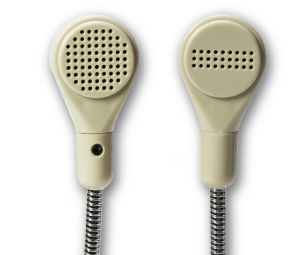
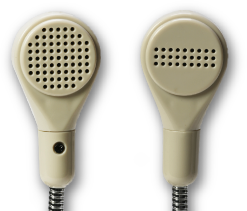
Ear phone.

diff --git a/public/contact.html b/public/contact.html
@@ -175,14 +175,14 @@
     <div class="container">
       <span>Copyright &#169; 2013 Spark Commerce Inc.</span>
       <span class="divider"></span>
-      <a>Terms</a>
+      <a href="/#">Terms</a>
       <span class="divider"></span>
-      <a>Privacy</a>
+      <a href="/#">Privacy</a>
       <span class="divider"></span>
       <div class="pull_right">
-        <a>About Us</a>
+        <a href="/#/about-us">About Us</a>
         <span class="divider"></span>
-        <a>Get Started</a>
+        <a href="/#">Get Started</a>
       </div>
     </div>
   </footer>

diff --git a/public/demo.html b/public/demo.html
@@ -173,14 +173,14 @@
     <div class="container">
       <span>Copyright &#169; 2013 Spark Commerce Inc.</span>
       <span class="divider"></span>
-      <a>Terms</a>
+      <a href="/#">Terms</a>
       <span class="divider"></span>
-      <a>Privacy</a>
+      <a href="/#">Privacy</a>
       <span class="divider"></span>
       <div class="pull_right">
-        <a>About Us</a>
+        <a href="/#/about-us">About Us</a>
         <span class="divider"></span>
-        <a>Get Started</a>
+        <a href="/#">Get Started</a>
       </div>
     </div>
   </footer>

diff --git a/public/index.html b/public/index.html
@@ -417,14 +417,14 @@
     <div class="container">
       <span>Copyright &#169; 2013 Spark Commerce Inc.</span>
       <span class="divider"></span>
-      <a>Terms</a>
+      <a href="/#">Terms</a>
       <span class="divider"></span>
-      <a>Privacy</a>
+      <a href="/#">Privacy</a>
       <span class="divider"></span>
       <div class="pull_right">
-        <a>About Us</a>
+        <a href="/#/about-us">About Us</a>
         <span class="divider"></span>
-        <a>Get Started</a>
+        <a href="/#">Get Started</a>
       </div>
     </div>
   </footer>

diff --git a/public/assets/css/application.css b/public/assets/css/application.css
@@ -1304,7 +1304,7 @@ marquee p {
 
 img.ear_phone {
   position: absolute;
-  bottom: -40px;
+  bottom: 0;
   right: 100px;
   z-index: 1;
 }
@@ -1538,9 +1538,11 @@ footer {
   background: url(../images/bg-footer.png) repeat-x top;
 }
 
-footer a {
+footer a,
+footer a:visited {
   color: #868686;
   cursor: pointer;
+  text-decoration: none;
 }
 
 footer a:hover {
